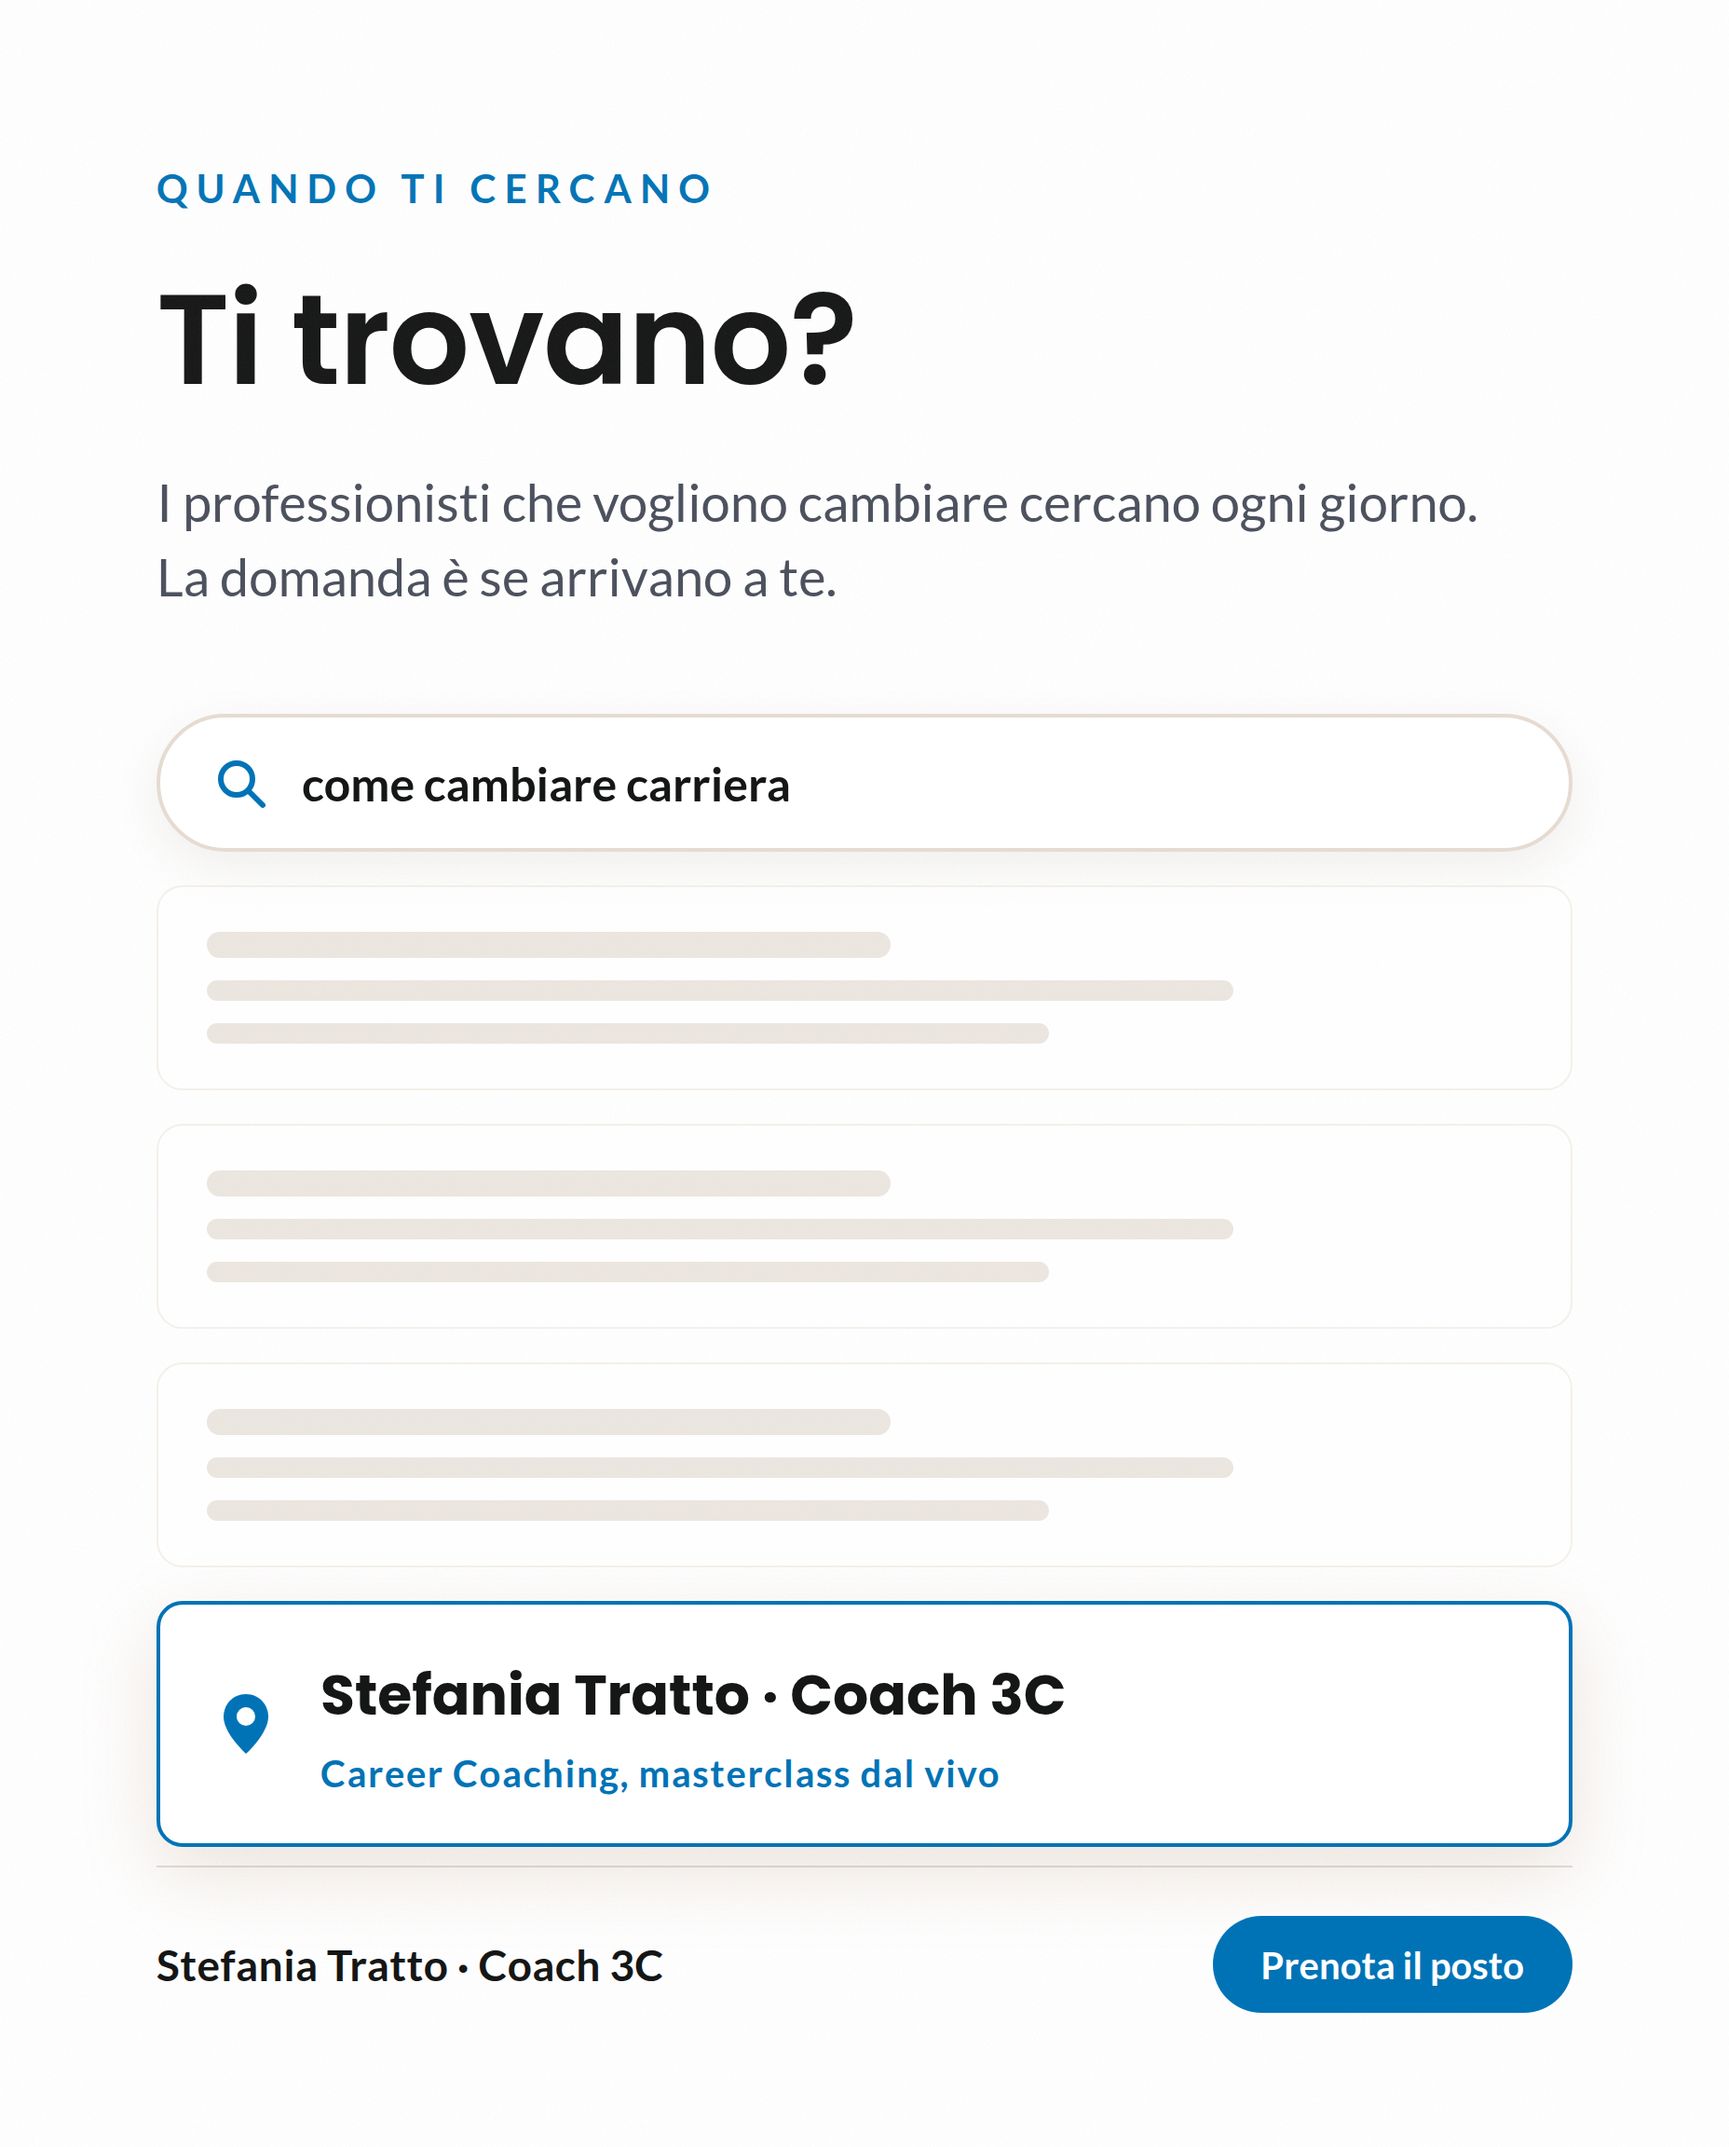
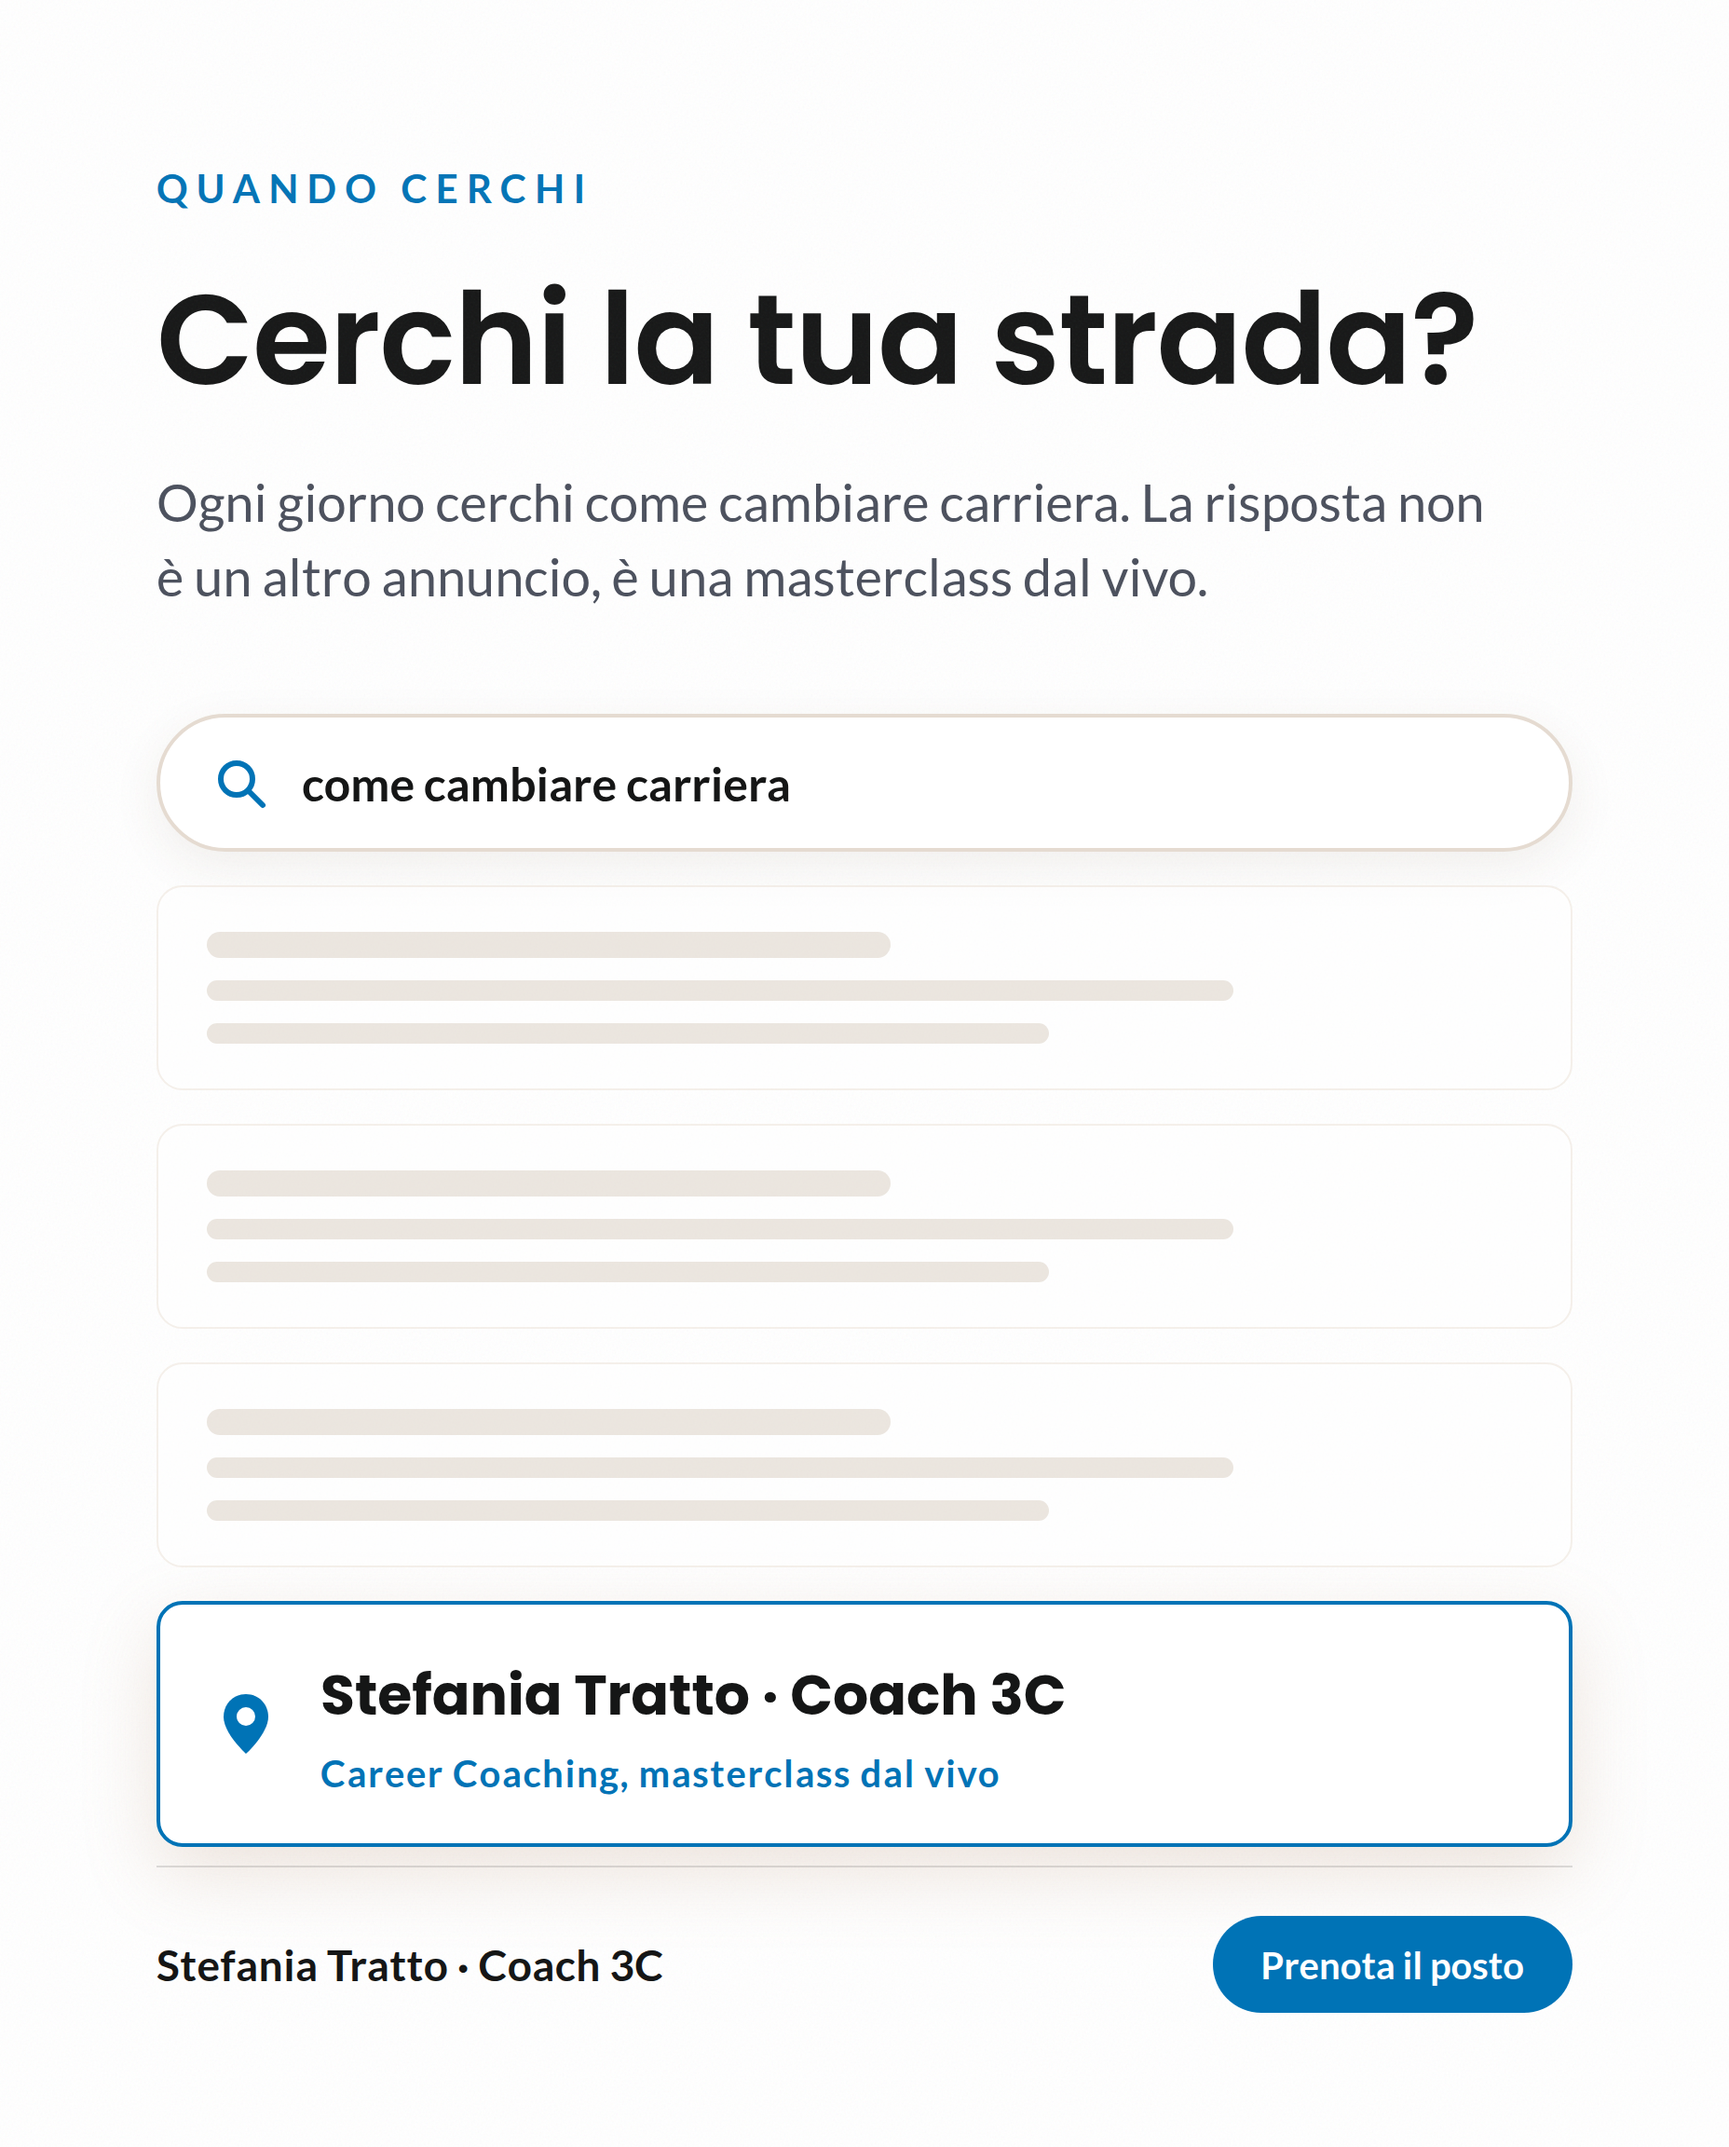
showcase: stefania-tratto

Changed region(s): [[0.0938, 0.125, 0.875, 0.1875], [0.0938, 0.2188, 0.8438, 0.2812], [0.2188, 0.0625, 0.4062, 0.0938]]

diff --git a/stefania-tratto/deck.html b/stefania-tratto/deck.html
@@ -50,32 +50,32 @@ li::before{content:'';position:absolute;left:0;top:9px;width:16px;height:16px;bo
 <div class="foot">Stefania Tratto, Coach 3C, Business/Team &amp; Life/Career Coach, Verona</div>
 <script>
 const S = [
- {t:'title', k:'Masterclass live, gratuita', h:'Cambiare carriera senza ripartire da zero', sub:'Come progettare la tua prossima carriera partendo dai talenti che hai gia, non dagli annunci.'},
- {t:'who', k:'Per chi e', h:'Se ti riconosci qui, questa sera e per te', who:'Sei un professionista che sente di essere nel posto sbagliato. Vuoi cambiare, ma il pensiero di ricominciare da capo ti blocca. Non ti serve un altro corso di CV, ti serve una direzione.'},
- {t:'trap', k:'La trappola', h:'La trappola delle candidature', sub:'Mandi curriculum, insegui annunci, aspetti risposte. Il mercato ti tratta come un profilo da filtrare, e tu ti senti sempre piu piccolo. Cosi il cambiamento sembra una fuga, non una scelta.'},
- {t:'reframe', k:'Il vero nodo', big:'Il problema non e il mercato. E che nessuno ti ha mai insegnato a <span class="a">guidare te stesso</span> nel cambiamento.'},
- {t:'part', k:'Parte 1', h:'Perche il cambiamento fallisce'},
- {t:'point', k:'Errore 1', h:'Parti dall esterno', sub:'Cerchi la posizione giusta prima di sapere chi sei al lavoro. Cosi ogni scelta e una scommessa sugli altri, mai su di te.'},
- {t:'point', k:'Errore 2', h:'La paura del da zero', sub:'Credi di dover buttare via anni di esperienza. Non e vero: i tuoi talenti si spostano con te. Cambia il contesto, non il tuo valore.'},
+ {t:'title', k:'Masterclass live, gratuita', h:'Cambiare carriera senza ripartire da zero', sub:'Come progettare la tua prossima carriera partendo dai talenti che hai già, non dagli annunci.'},
+ {t:'who', k:'Per chi è', h:'Se ti riconosci qui, questa sera è per te', who:'Sei un professionista che sente di essere nel posto sbagliato. Vuoi cambiare, ma il pensiero di ricominciare da capo ti blocca. Non ti serve un altro corso di CV, ti serve una direzione.'},
+ {t:'trap', k:'La trappola', h:'La trappola delle candidature', sub:'Mandi curriculum, insegui annunci, aspetti risposte. Il mercato ti tratta come un profilo da filtrare, e ti senti sempre più piccolo. Così il cambiamento sembra una fuga, non una scelta.'},
+ {t:'reframe', k:'Il vero nodo', big:'Il problema non è il mercato. È che nessuno ti ha mai insegnato a <span class="a">guidare te stesso</span> nel cambiamento.'},
+ {t:'part', k:'Parte 1', h:'Perché il cambiamento fallisce'},
+ {t:'point', k:'Errore 1', h:'Parti dall’esterno', sub:'Cerchi la posizione giusta prima di sapere chi sei al lavoro. Così ogni scelta è una scommessa sugli altri, mai su di te.'},
+ {t:'point', k:'Errore 2', h:'La paura del da zero', sub:'Credi di dover buttare via anni di esperienza. Non è vero: i tuoi talenti si spostano con te. Cambia il contesto, non il tuo valore.'},
  {t:'part', k:'Parte 2', h:'Il metodo: cambiare da dentro'},
  {t:'framework', k:'Coach 3C', h:'Tre pilastri per una svolta che regge', grid:[
    {n:'01', t:'Talenti', d:'Riconoscere cosa sai fare meglio, davvero.'},
    {n:'02', t:'Autoleadership', d:'Imparare a guidarti nel cambiamento.'},
    {n:'03', t:'Autonomia', d:'Liberare la tua crescita, senza permessi.'}]},
- {t:'pillar', k:'Pilastro 1', h:'Talenti', sub:'Prima di scegliere cosa fare, scopri come funzioni. Con lo strumento dei 4 Colori mappiamo il tuo modo naturale di lavorare, decidere e comunicare. Il punto di partenza sei tu, non un annuncio.'},
+ {t:'pillar', k:'Pilastro 1', h:'Talenti', sub:'Prima di scegliere cosa fare, scopri come funzioni. Con lo strumento dei 4Colors mappiamo il tuo modo naturale di lavorare, decidere e comunicare. Il punto di partenza sei tu, non un annuncio.'},
  {t:'pillar', k:'Pilastro 2', h:'Autoleadership', sub:'Dai miei libri Leader Evoluti per Team Evoluti: un leader evoluto guida prima se stesso. Nel cambio di carriera vuol dire smettere di aspettare il permesso e iniziare a orientare le tue scelte.'},
- {t:'pillar', k:'Pilastro 3', h:'Autonomia, la mentalita Teal', sub:'Dal mio libro Teal: le persone crescono quando vengono liberate da rigidita e controllo. Lo stesso vale per te: la tua prossima carriera si progetta dandoti fiducia e autonomia, non regole altrui.'},
- {t:'tool', k:'Lo strumento', h:'I 4 Colori: conoscere come funzioni', grid:[
+ {t:'pillar', k:'Pilastro 3', h:'Autonomia, la mentalità Teal', sub:'Dal mio libro Teal: le persone crescono quando vengono liberate da rigidità e controllo. Lo stesso vale per te: la tua prossima carriera si progetta dandoti fiducia e autonomia, non regole altrui.'},
+ {t:'tool', k:'Lo strumento', h:'I 4Colors: conoscere come funzioni', grid:[
    {n:'', t:'Come decidi', d:'Di pancia o coi dati.'},
    {n:'', t:'Come comunichi', d:'Diretto o relazionale.'},
-   {n:'', t:'Come cresci', d:'Sfida o stabilita.'}]},
+   {n:'', t:'Come cresci', d:'Sfida o stabilità.'}]},
  {t:'part', k:'Parte 3', h:'Come si mette in pratica'},
- {t:'steps', k:'Il percorso', h:'Da bloccato a in movimento', points:['Mappa i tuoi talenti reali con i 4 Colori','Scegli una direzione coerente con chi sei','Fai il primo passo guidando te stesso, non gli eventi']},
- {t:'event', k:'Stasera', h:'Una sera, 60 minuti, dal vivo', sub:'Nella masterclass live lavoriamo insieme sul primo pilastro: i tuoi talenti. Esci con una direzione, non con altri compiti da fare.'},
- {t:'whyme', k:'Chi sono', h:'Stefania Tratto', who:'Business/Team & Life/Career Coach, Master Practitioner di PNL e Neuro-Semantica, consulente 4Colors. Autrice di Leader Evoluti per Team Evoluti e Teal. Da anni accompagno persone e team a crescere partendo da cio che sono.', byline:'Coach 3C, Verona'},
- {t:'recap', k:'Ricapitolando', h:'Tre pilastri, una svolta', points:['Talenti: riparti da cio che hai gia','Autoleadership: guidati nel cambiamento','Autonomia: libera la tua crescita']},
+ {t:'steps', k:'Il percorso', h:'Da bloccato a in movimento', points:['Mappa i tuoi talenti reali con i 4Colors','Scegli una direzione coerente con chi sei','Fai il primo passo guidando te stesso, non gli eventi']},
+ {t:'event', k:'La masterclass', h:'Una sera, 60 minuti, dal vivo', sub:'Nella masterclass live lavoriamo sui tre pilastri, a partire dai tuoi talenti. Esci con una direzione di lavoro, non con altri compiti da fare.'},
+ {t:'whyme', k:'Chi sono', h:'Stefania Tratto', who:'Business/Team & Life/Career Coach, Master Practitioner di PNL e Neuro-Semantica, consulente 4Colors. Autrice di Leader Evoluti per Team Evoluti e Teal. Da anni accompagno persone e team a crescere partendo da ciò che sono.', byline:'Coach 3C, Verona'},
+ {t:'recap', k:'Ricapitolando', h:'Tre pilastri, una svolta', points:['Talenti: riparti da ciò che hai già','Autoleadership: guidati nel cambiamento','Autonomia: libera la tua crescita']},
  {t:'invite', k:'Il prossimo passo', big:'Se vuoi lavorare sulla tua svolta con me, il percorso di <span class="a">Professional Career Coaching</span> parte da qui.'},
- {t:'cta', k:'Prossimo passo', h:'Prenota la tua chiamata', sub:'Scopriamo insieme se il percorso di Professional Career Coaching e giusto per te.', ctaLine:'Scrivimi o prenota un primo confronto', disc:'Contenuto educativo. Nessun risultato professionale o economico e garantito (no result or income is guaranteed); results vary and depend on your situation and effort.'}
+ {t:'cta', k:'Prossimo passo', h:'Prenota la tua chiamata', sub:'Scopriamo insieme se il percorso di Professional Career Coaching è giusto per te.', ctaLine:'Scrivimi o prenota un primo confronto', disc:'Contenuto educativo. Nessun risultato professionale o guadagno è garantito e i risultati variano. (Educational content: no result or income is guaranteed; results vary and depend on your situation and effort.)'}
 ];
 
 const el = document.getElementById('deck');
